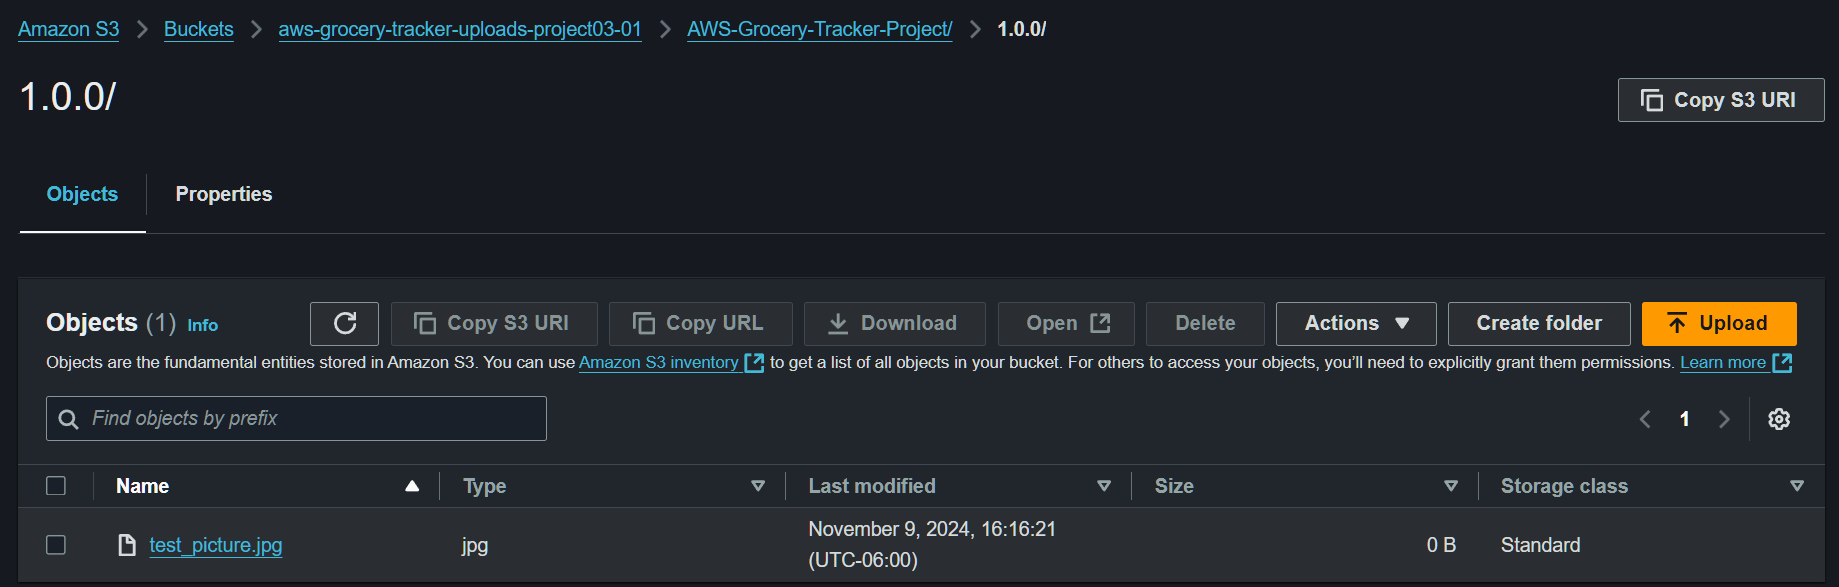
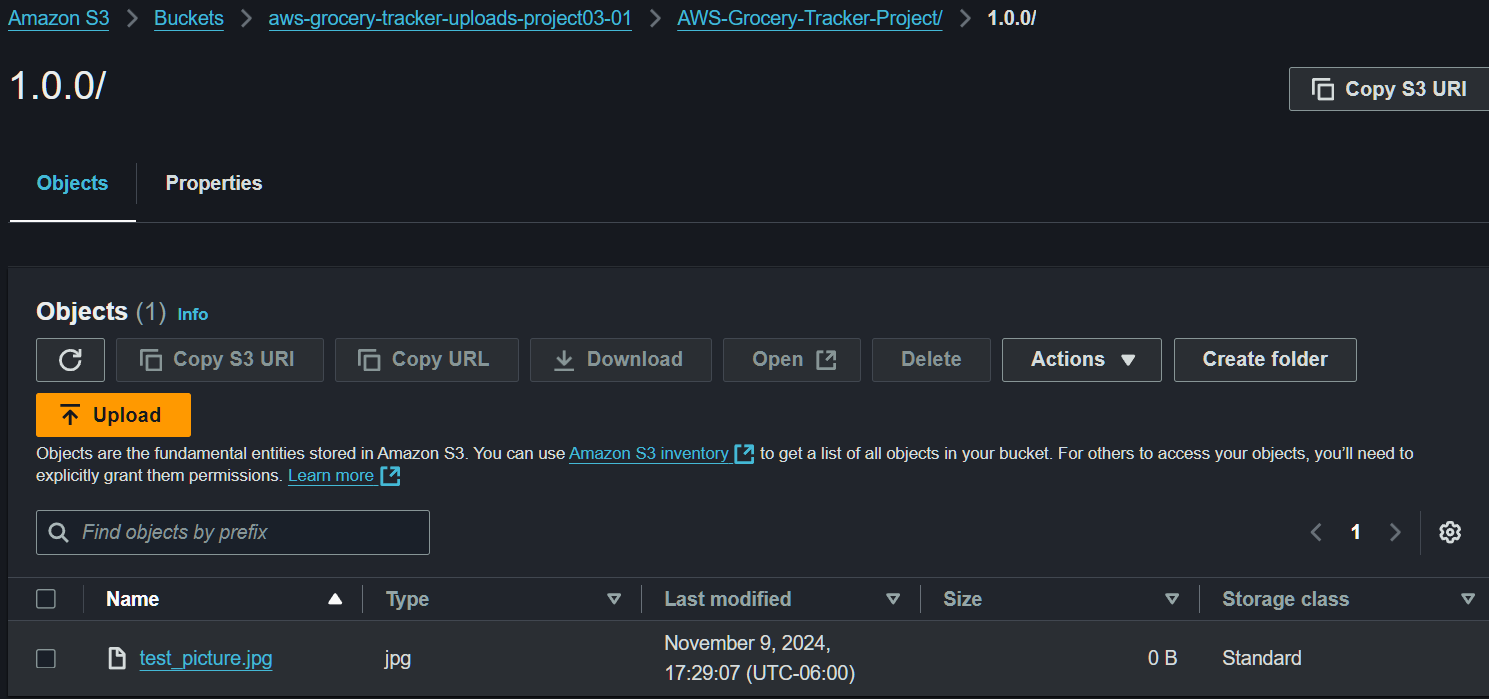
Updating the repo

diff --git a/src/utils/s3_uploader.py b/src/utils/s3_uploader.py
@@ -6,13 +6,13 @@ from botocore.exceptions import BotoCoreError, ClientError
 # AWS S3 bucket name and upload folder path
 BUCKET_NAME = 'aws-grocery-tracker-uploads-project03-01'
 UPLOAD_FOLDER = 'AWS-Grocery-Tracker-Project/1.0.0/'
-RAW_IMAGES_PATH = '/home/ggc/greengrassv2/data/raw_images/cache/'  # Directory containing images to upload
+RAW_IMAGES_PATH = '/home/ggc/greengrassv2/data/cache/'  # Directory containing images to upload
 
 # Initialize S3 client
 s3_client = boto3.client('s3')
 
 def upload_files():
-    """Upload all files from the raw_images directory to the designated S3 bucket."""
+    """Upload all files from the data/cache/ directory to the designated S3 bucket."""
     # Check if directory exists
     if not os.path.isdir(RAW_IMAGES_PATH):
         print(f"Directory {RAW_IMAGES_PATH} does not exist, cannot upload files.")
